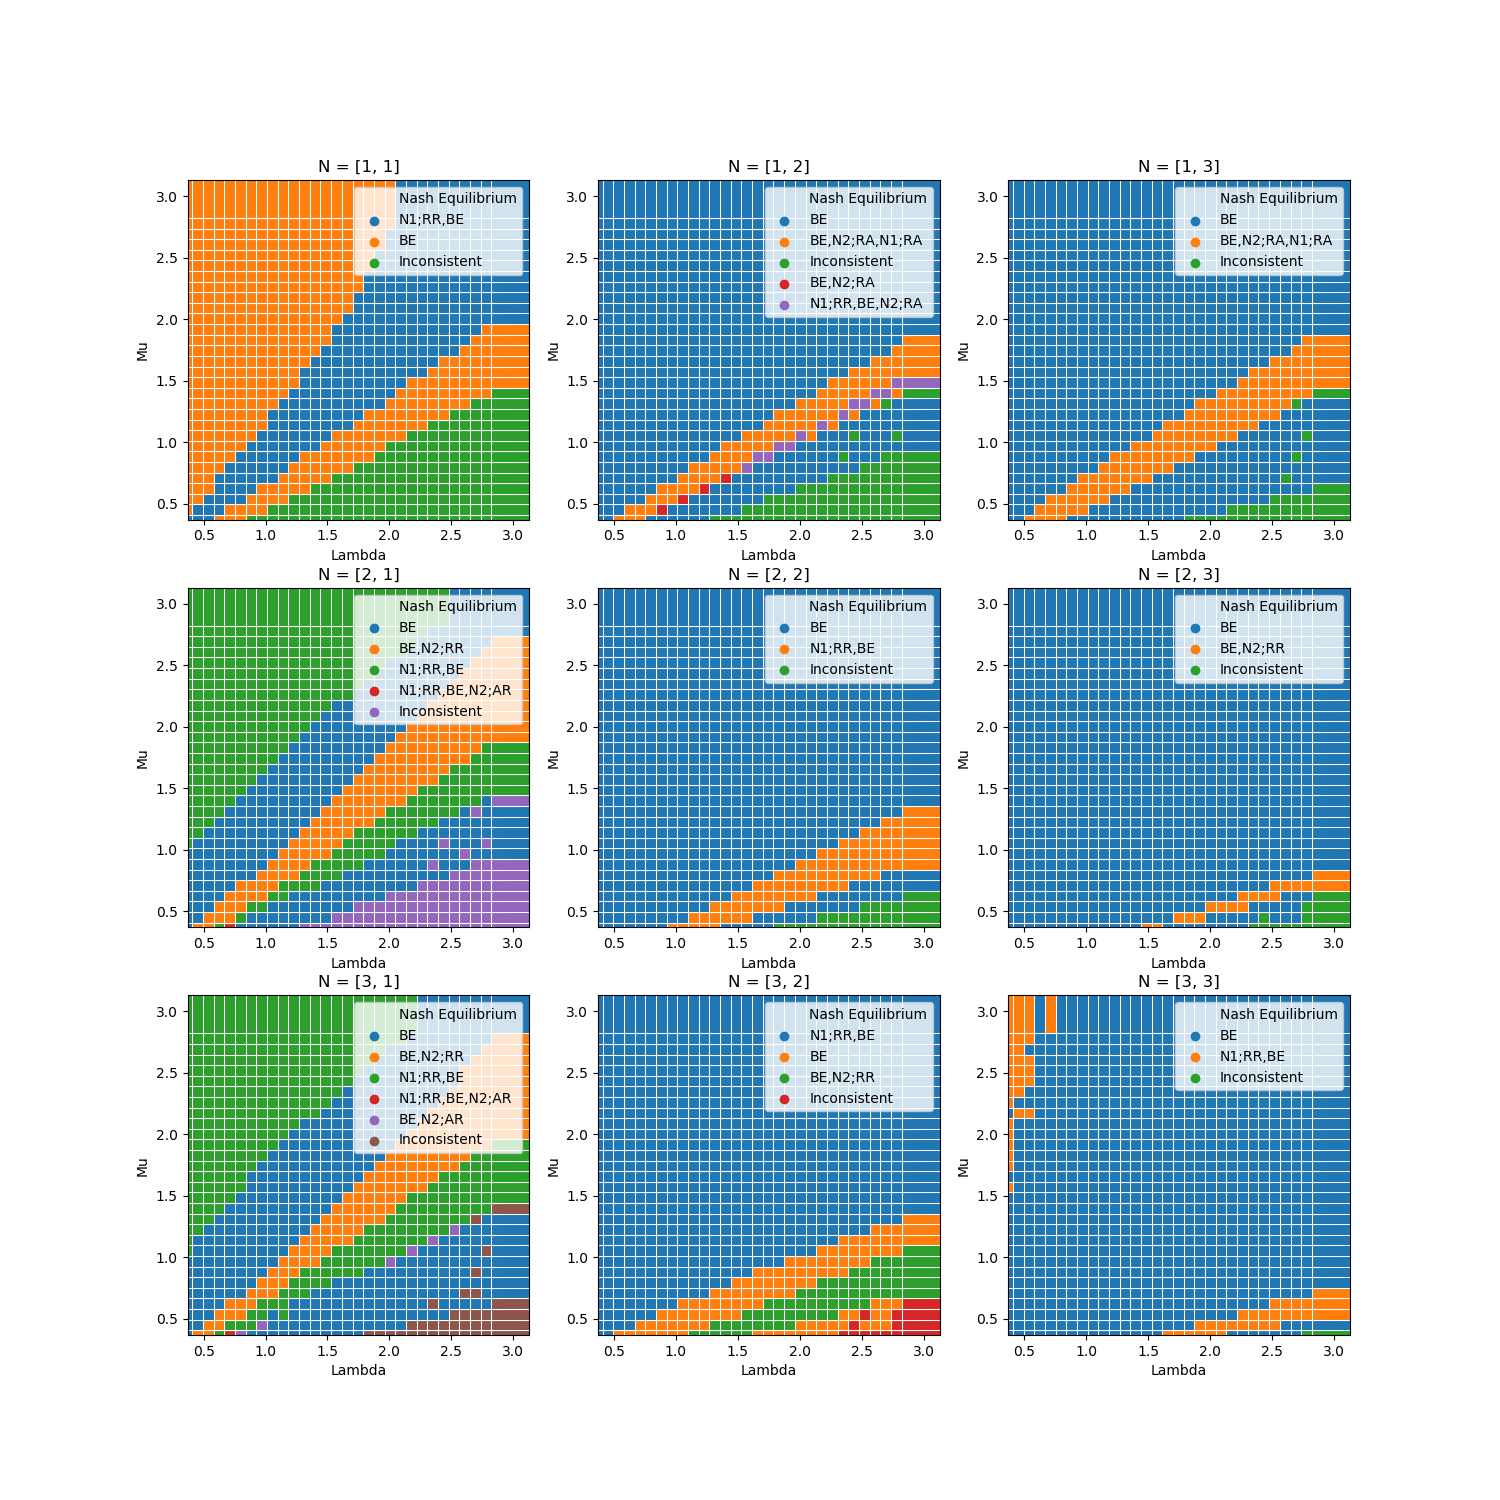
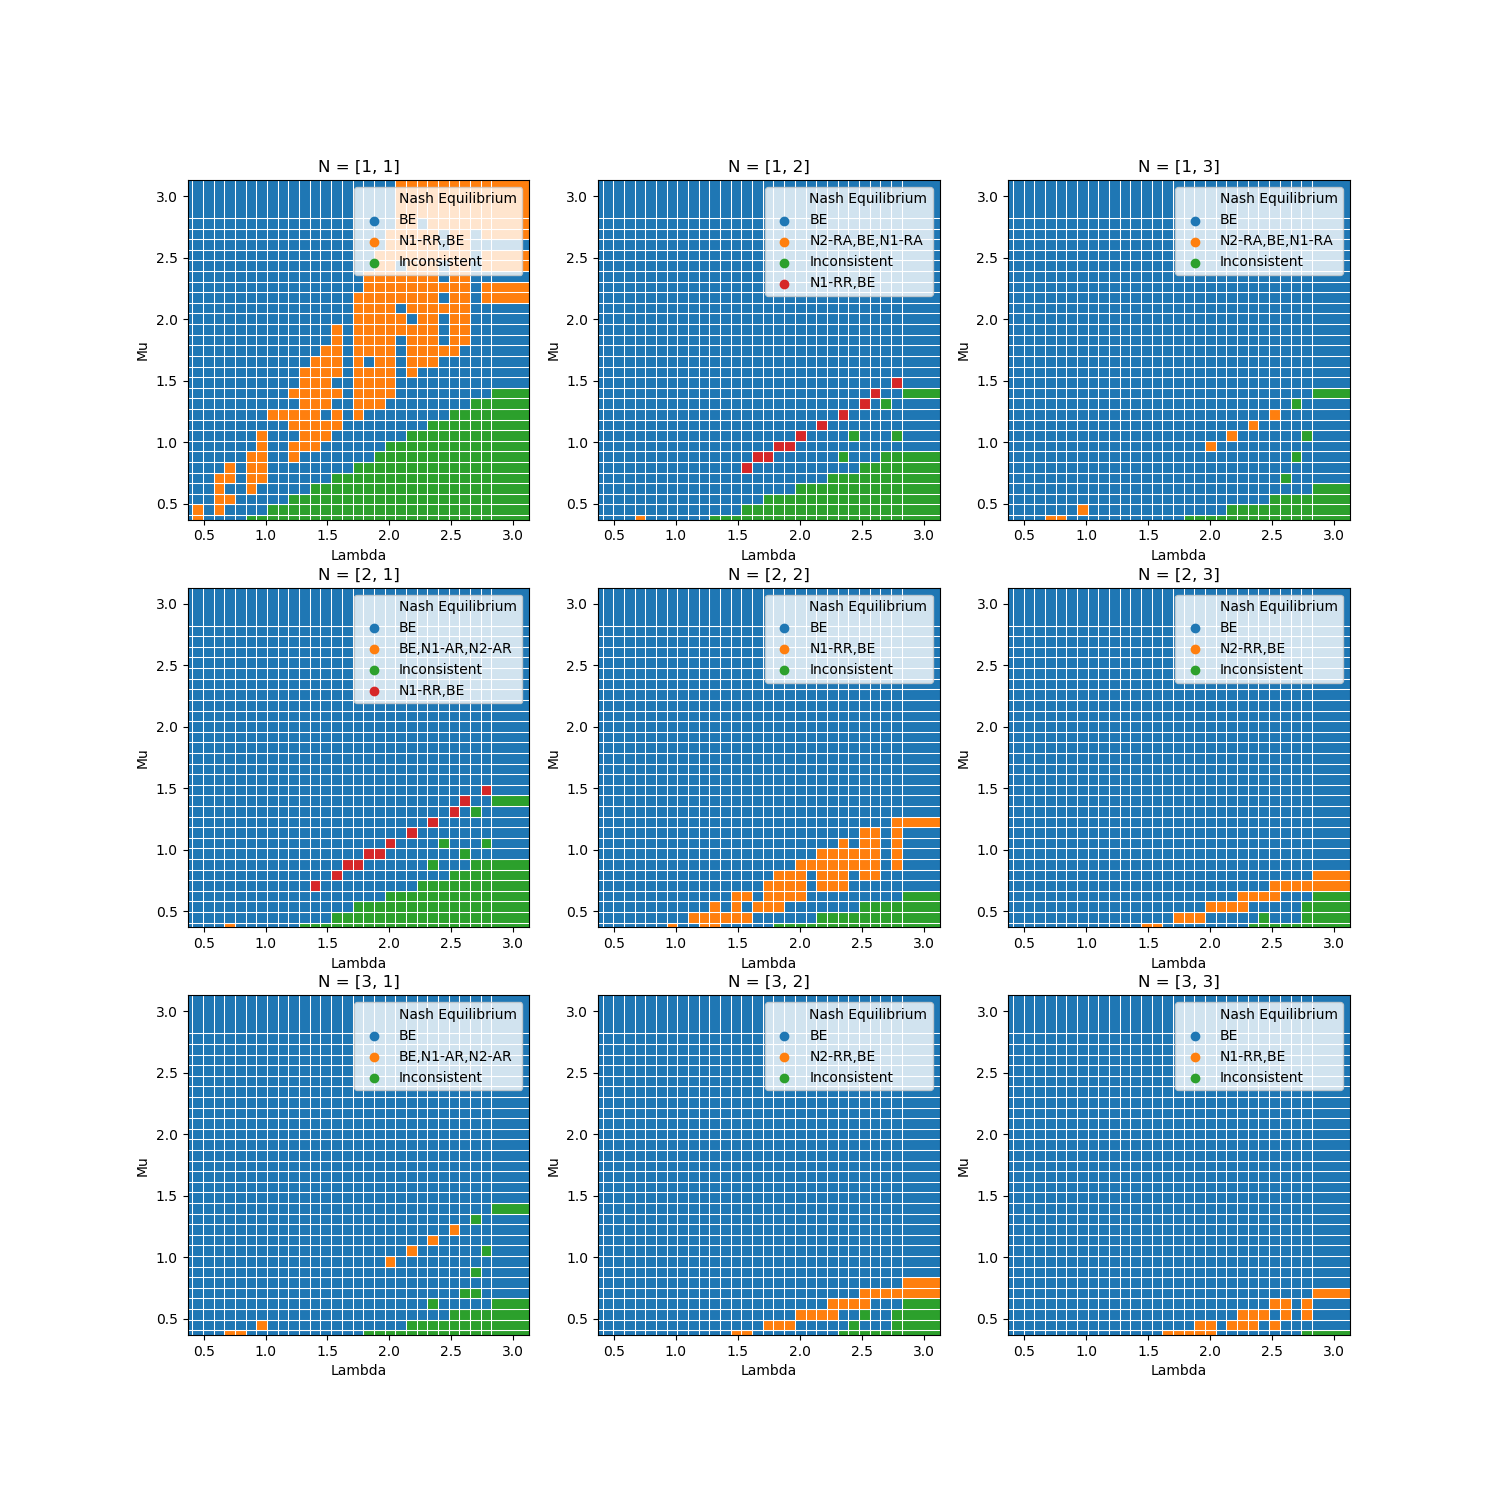
fix pne for 3 players

diff --git a/src/gt/core/NashEquilibrium.py b/src/gt/core/NashEquilibrium.py
@@ -1,0 +1,63 @@
+from gt.core.HospitalsAndDispatcherModel import DispatcherAndHospitalsModel
+
+
+class GameWith3Players:
+    def __init__(self, payoff_matrix):
+        self.payoff_matrix = payoff_matrix
+
+    def find_pure_nash_equ(self):
+        equs = []
+        for player1_strategy in range(self.payoff_matrix.shape[0]):
+            for player2_strategy in range(self.payoff_matrix.shape[1]):
+                for player3_strategy in range(self.payoff_matrix.shape[2]):
+                    cur_payoff = self.payoff_matrix[player1_strategy][player2_strategy][player3_strategy]
+                    nash_equ = True
+                    for indiff_strategies_for_player, player_idx in zip(
+                            self.get_indifferent_strategies_payoff_for_each_player(player1_strategy, player2_strategy,
+                                                                                   player3_strategy), range(3)):
+                        if not self.is_strategy_dominate(cur_payoff, indiff_strategies_for_player, player_idx):
+                            nash_equ = False
+                    if nash_equ:
+                        equs.append((player1_strategy, player2_strategy, player3_strategy))
+        return equs
+
+    def get_indifferent_strategies_payoff_for_each_player(self, i, j, k):
+        player1_indiff_strategies_payoff = [self.payoff_matrix[x][j][k] for x in range(self.payoff_matrix.shape[0])
+                                            if x != i]
+        player2_indiff_strategies_payoff = [self.payoff_matrix[i][y][k] for y in
+                                            range(self.payoff_matrix.shape[1]) if y != j]
+        player3_indiff_strategies_payoff = [self.payoff_matrix[i][j][z] for z in range(self.payoff_matrix.shape[2])
+                                            if z != k]
+
+        return player1_indiff_strategies_payoff, player2_indiff_strategies_payoff, player3_indiff_strategies_payoff
+
+    @staticmethod
+    def is_strategy_dominate(dominate_strategy_payoff, dominated_strategies_payoff, player_idx):
+        for dominated_strategy_payoff in dominated_strategies_payoff:
+            if dominate_strategy_payoff[player_idx] < dominated_strategy_payoff[player_idx]:
+                return False
+        return True
+
+    def find_pne_for_dispatcher_and_hospitals(self):
+        equs = self.find_pure_nash_equ()
+        return set([self.convert_strategy_idx_to_name(equ) for equ in equs])
+
+    def convert_strategy_idx_to_name(self, str_indices):
+        disp_strategy = 'N2'
+        if str_indices[0] == 1:
+            disp_strategy = 'N1'
+        elif str_indices[0] == 2:
+            return 'BE'
+
+        hosp1_strategy = 'A' if str_indices[1] == 0 else 'R'
+        hosp2_strategy = 'A' if str_indices[2] == 0 else 'R'
+        return '{}-{}{}'.format(disp_strategy, hosp1_strategy, hosp2_strategy)
+
+
+if __name__ == '__main__':
+    model = DispatcherAndHospitalsModel(2, 2, [2, 2], 5, 10)
+    matrix = model.game_matrix(2)
+    print(matrix)
+
+    game = GameWith3Players(matrix)
+    print(game.find_pne_for_dispatcher_and_hospitals())

diff --git a/src/gt/plot/DispatcherPlot.py b/src/gt/plot/DispatcherPlot.py
@@ -1,5 +1,5 @@
 from gt.core.HospitalsAndDispatcherModel import DispatcherAndHospitalsModel
-from neng.game import Game
+from gt.core.NashEquilibrium import GameWith3Players
 from common import *
 
 
@@ -9,59 +9,16 @@ def find_nash(la, mu, n, print_matrix=False):
     if print_matrix:
         print(matrix)
 
-    text = "NFG 1 R \"Ambulance Dispatching Game\" { \"Dispatcher\" \"Hospital1\" \"Hospital2\" }\n\n"
-    text += "{ { \"N2\" \"N1\" \"BE\" }\n"
-    text += "{ \"A\" \"R\" }\n"
-    text += "{ \"A\" \"R\" }\n"
-    text += "}\n\"\"\n\n"
-
-    text += "{\n"
-    for k in range(2):
-        for j in range(2):
-            for i in range(3):
-                text += "{ \"\" %f, %f, %f }\n" % (matrix[i][j][k][0], matrix[i][j][k][2], matrix[i][j][k][2])
-    text += "}\n"
-    text += "1 2 3 4 5 6 7 8 9 10 11 12"
-
-    game = Game(text)
-    sol = game.findEquilibria('pne')
-    return extract_strategies_from_solutions(sol, matrix)
-
-
-def extract_strategies_from_solutions(solutions, payoff_matrix):
-    strategies = set()
-    if not solutions:
-        return strategies
-    for sol in solutions:
-        cur_stra = ''
-        if sol[0][0] == 1:
-            cur_stra += 'N2'
-        elif sol[0][1] == 1:
-            cur_stra += 'N1'
-        else:
-            cur_stra += 'BE'
-            strategies.add(cur_stra)
-            continue
-
-        cur_stra += ';'
-        if sol[1][0] == 1:
-            cur_stra += 'A'
-        else:
-            cur_stra += 'R'
-
-        if sol[2][0] == 1:
-            cur_stra += 'A'
-        else:
-            cur_stra += 'R'
-        strategies.add(cur_stra)
-    if is_inconsistent(strategies, payoff_matrix):
+    game = GameWith3Players(matrix)
+    equs = game.find_pne_for_dispatcher_and_hospitals()
+    if is_inconsistent(equs, matrix):
         return ['Inconsistent']
-    return strategies
+    return equs
 
 
 def is_inconsistent(strategies, payoff):
     for strategy in strategies:
-        if strategy == 'BE':
+        if strategy[:2] == 'BE':
             if payoff[2][0][0][1] < 0 or payoff[2][0][0][2] < 0:
                 return True
             continue

diff --git a/src/gt/plot/Dispatcher2StrategiesPlot.py b/src/gt/plot/Dispatcher2StrategiesPlot.py
@@ -1,31 +1,19 @@
 from gt.core.HospitalsAndDispatcherModel import DispatcherAndHospitalsModel
-from neng.game import Game
 from common import *
+from gt.core.NashEquilibrium import GameWith3Players
 
 
 def find_nash(la, mu, n, print_matrix=False):
     model = DispatcherAndHospitalsModel(la, mu, n, 3, 10)
-    matrix = model.game_matrix()
+    matrix = model.game_matrix(disp_strategies_number=2)
     if print_matrix:
         print(matrix)
 
-    text = "NFG 1 R \"Ambulance Dispatching Game\" { \"Dispatcher\" \"Hospital1\" \"Hospital2\" }\n\n"
-    text += "{ { \"N2\" \"N1\" }\n"
-    text += "{ \"A\" \"R\" }\n"
-    text += "{ \"A\" \"R\" }\n"
-    text += "}\n\"\"\n\n"
-
-    text += "{\n"
-    for k in range(2):
-        for j in range(2):
-            for i in range(2):
-                text += "{ \"\" %f, %f, %f }\n" % (matrix[i][j][k][0], matrix[i][j][k][1], matrix[i][j][k][2])
-    text += "}\n"
-    text += "1 2 3 4 5 6 7 8"
-
-    game = Game(text)
-    sol = game.findEquilibria('pne')
-    return extract_strategies_from_solutions(sol, matrix)
+    game = GameWith3Players(matrix)
+    equs = game.find_pne_for_dispatcher_and_hospitals()
+    if is_inconsistent(equs, matrix):
+        return ['Inconsistent']
+    return equs
 
 
 def is_inconsistent(strategies, payoff):
@@ -37,31 +25,6 @@ def is_inconsistent(strategies, payoff):
             return True
 
 
-def extract_strategies_from_solutions(solutions, payoff_matrix):
-    strategies = set()
-    if not solutions:
-        return strategies
-    for sol in solutions:
-        cur_stra = ''
-        if sol[0][0] == 1:
-            cur_stra += 'N2'
-        else:
-            cur_stra += 'N1'
-        cur_stra += ';'
-        if sol[1][0] == 1:
-            cur_stra += 'A'
-        else:
-            cur_stra += 'R'
-
-        if sol[2][0] == 1:
-            cur_stra += 'A'
-        else:
-            cur_stra += 'R'
-        strategies.add(cur_stra)
-
-    if is_inconsistent(strategies, payoff_matrix):
-        return ['Inconsistent']
-    return strategies
 
 
 def solution_plot(n, ax=None, legend=False):

diff --git a/src/simulation/transportation/CityHourlyGraph.py b/src/simulation/transportation/CityHourlyGraph.py
@@ -1,0 +1,17 @@
+from dijkstar import *
+from common import *
+
+class CityHourlyGraph:
+    def __init__(self, hour):
+        self.hour = hour
+
+    def load_graph(self):
+        pd.read_csv('../../data/transportation/spb-%02d.csv' % self.hour, encoding='UTF-8')
+        
+
+if __name__ == '__main__':
+    graph = Graph()
+    graph.add_edge('A', 'B', {'cost': 1})
+    graph.add_edge('B', 'C', {'cost': 1})
+    print(list(graph.keys()))
+    # graph.marshal('kek.txt')

diff --git a/src/gt/core/HospitalsAndDispatcherModel.py b/src/gt/core/HospitalsAndDispatcherModel.py
@@ -126,10 +126,10 @@ class DispatcherAndHospitalsModel(HospitalsModel):
     def utility_function(l, t):
         return l / t
 
-    def game_matrix(self):
+    def game_matrix(self, disp_strategies_number=3):
         lambdas, times = self.lambdas_and_times()
         matrix = []
-        for i in range(3):
+        for i in range(disp_strategies_number):
             matrix.append([])
             for j in range(2):
                 matrix[i].append([])

diff --git a/src/Previous.md b/src/Previous.md
@@ -19,7 +19,7 @@ Patients time record
 ![Patients time record](images/previous/Patient%20time%20record.png)
 
 Patients time record in each hospital
-![Patients time record in each hospital](images/previous/Patient%20time%20record%20in%20each%20hospital.png)
+![Paltients time record in each hospital](images/previous/Patient%20time%20record%20in%20each%20hospital.png)
 
 Select Hospital Algorithm
 ![Select Hospital Algorithm](images/previous/Select%20Hospital%20Algorithm.png)
